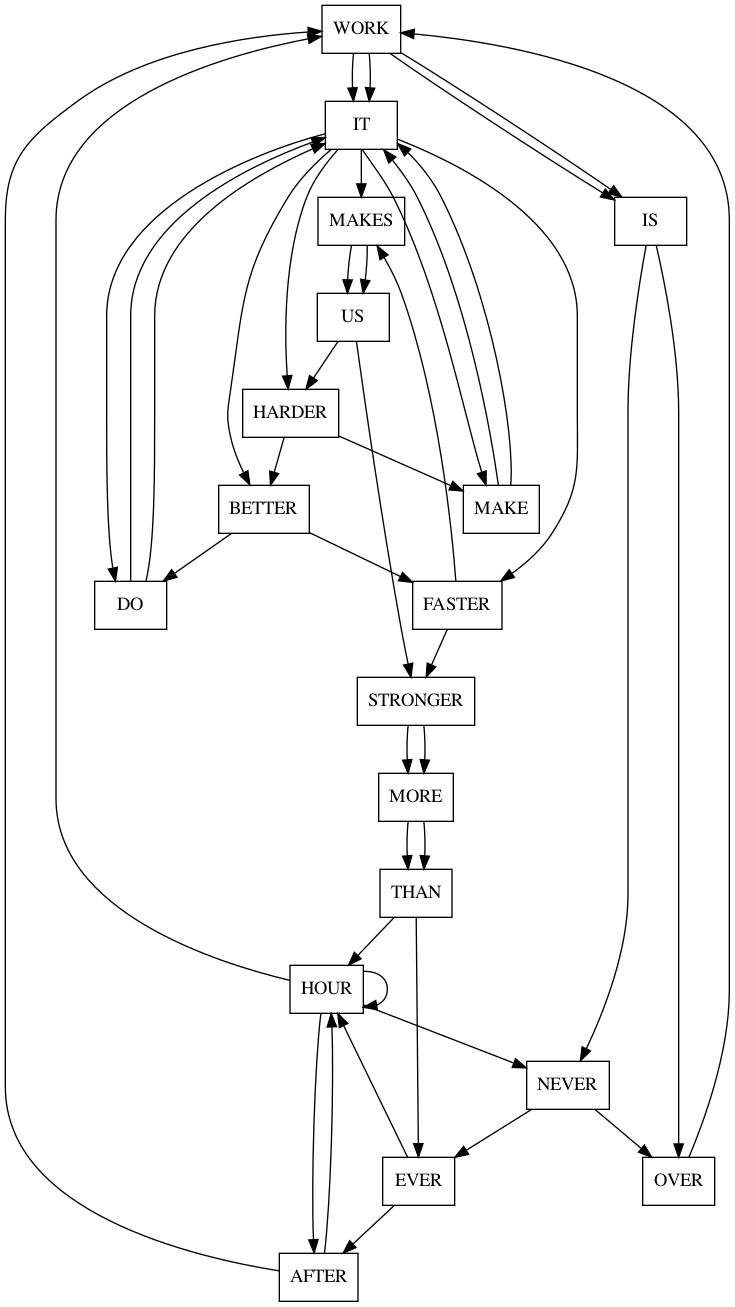
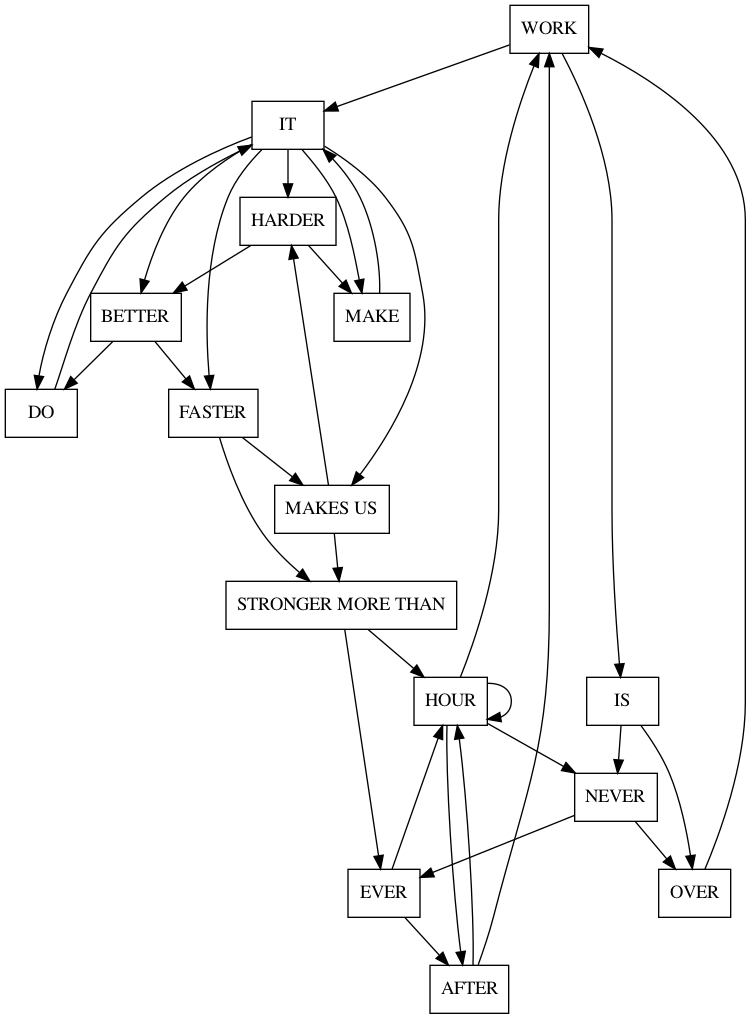
Remove redundant edges

diff --git a/grapher.rb b/grapher.rb
@@ -10,11 +10,13 @@ class Grapher
 
   def initialize(
     txt:,
-    remove_duplicate_edges: false,
+    remove_duplicate_edges: true,
+    remove_redundant_edges: true,
     upcase: true
   )
     @txt = txt
     @remove_duplicate_edges = remove_duplicate_edges
+    @remove_redundant_edges = remove_redundant_edges
     @upcase = upcase
   end
 
@@ -26,10 +28,13 @@ class Grapher
 
     previous_word_id = nil
     lyrics.each do |word|
-      word_id = word.downcase.gsub("'", "_")
+      word_id = node_id_for([word])
 
       @nodes[word_id] ||= {
-        label: (@upcase ? word.upcase : word),
+        words: [word],
+        attrs: {
+          label: (@upcase ? word.upcase : word),
+        },
       }
 
       if previous_word_id
@@ -40,6 +45,7 @@ class Grapher
     end
 
     @edges.uniq! if @remove_duplicate_edges
+    remove_redundant_edges if @remove_redundant_edges
   end
 
   def save(dot:, png:)
@@ -47,7 +53,7 @@ class Grapher
       f.puts "digraph {"
 
       @nodes.each_entry do |node_id, node_def|
-        f.puts "  #{node_id} #{attrs(node_def)}"
+        f.puts "  #{node_id} #{attrs(node_def[:attrs])}"
       end
 
       @edges.each do |edge|
@@ -64,6 +70,68 @@ class Grapher
   end
 
   private
+
+  def node_id_for(words)
+    words.map(&:downcase).join("__").gsub("'", "_")
+  end
+
+  def remove_redundant_edges
+    # Simplify "A->B" to "AB", if:
+    # - A's only output is B, and B's only input is A
+    # and the combined "AB" node doesn't yet exist
+
+    node_in_count = @edges.map { |e| e[:to] }.group_by(&:itself).transform_values(&:length)
+    node_out_count = @edges.map { |e| e[:from] }.group_by(&:itself).transform_values(&:length)
+
+    loop do
+      removed_any = false
+
+      @edges.each_with_index do |e, edge_index|
+        from = e[:from]
+        to = e[:to]
+        next unless node_out_count[from] == 1 && node_in_count[to] == 1
+
+        next if from == to # Damn it, Daft Punk!
+
+        combined_node_id = node_id_for(
+          @nodes[from][:words] + @nodes[to][:words]
+        )
+        next if @nodes.key?(combined_node_id)
+
+        puts "Combine #{from} + #{to} -> #{combined_node_id}"
+        words = @nodes[from][:words] + @nodes[to][:words]
+
+        @nodes[combined_node_id] = {
+            words: words,
+            attrs: {
+                label: (@upcase ? words.join(" ").upcase : words.join(" ")),
+            },
+        }
+
+        # Update any edges to A, to refer to AB
+        # Update any edges from B, to refer to AB
+        @edges.each { |other_edge| other_edge[:to] = combined_node_id if other_edge[:to] == from }
+        @edges.each { |other_edge| other_edge[:from] = combined_node_id if other_edge[:from] == to }
+
+        # Remove the edge
+        @edges.slice!(edge_index, 1)
+
+        # Remove nodes A and B
+        @nodes.delete(from)
+        @nodes.delete(to)
+
+        node_in_count[combined_node_id] = node_in_count[from]
+        node_out_count[combined_node_id] = node_out_count[to]
+        node_in_count.delete(from)
+        node_in_count.delete(to)
+
+        removed_any = true
+        break
+      end
+
+      break unless removed_any
+    end
+  end
 
   def attrs(hash)
     return if !hash || hash.empty?
